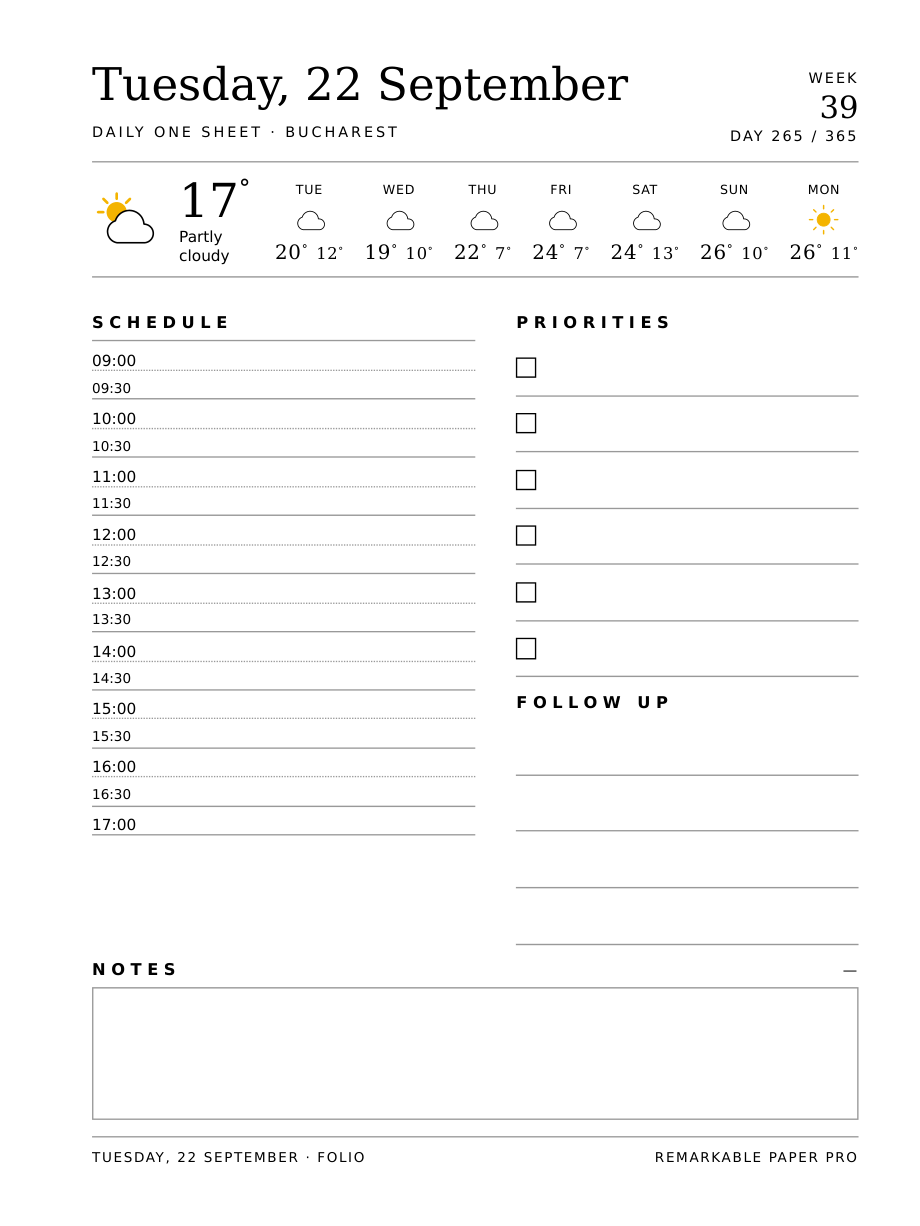
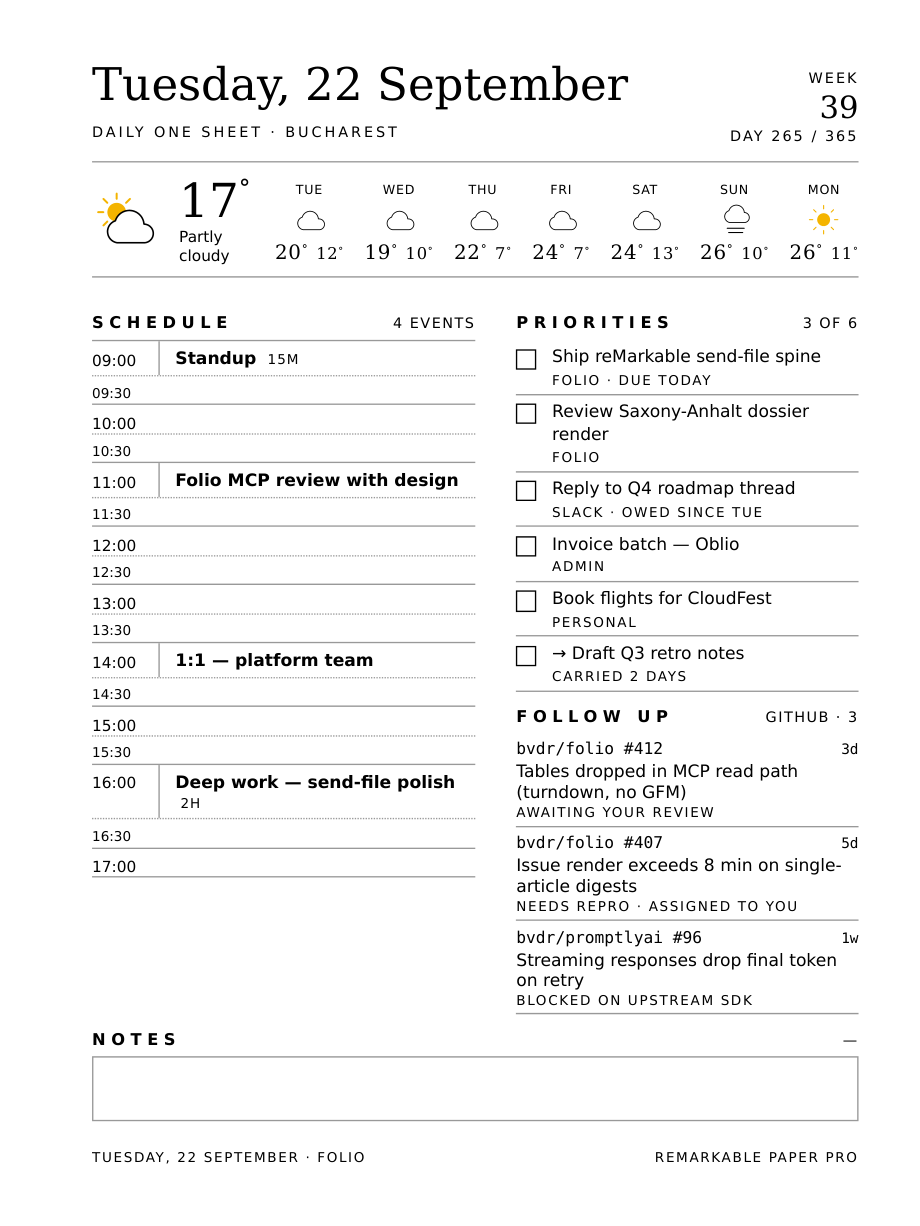
feat: data-driven build_sheet.py + baked-in defaults; drop footer rule
Adds scripts/build_sheet.py: give it a JSON of data and it emits the sheet HTML
with every design decision baked in (week/hourly weather, half-hour 09-17
schedule, blank write-on rows, notes box that fills, per-page toolbar-clear
margins, lined pages). reference/example-data.json is a full working sample.
SKILL.md documents the house-style defaults so any day can be recreated from
live data. Removes the redundant top rule on the footer.

diff --git a/plugins/daily-planner/skills/daily-planner/assets/planner.css b/plugins/daily-planner/skills/daily-planner/assets/planner.css
@@ -125,7 +125,7 @@ body {
 .grid__label { flex: 1; font-size: 9pt; }
 
 /* ---- Footer ---- */
-.foot { padding-top: 2.5mm; border-top: var(--line) solid var(--form);
+.foot { padding-top: 2.5mm;
   display: flex; justify-content: space-between; font-size: 7.5pt;
   letter-spacing: 0.12em; text-transform: uppercase; }
 

diff --git a/plugins/daily-planner/skills/daily-planner/scripts/build_sheet.py b/plugins/daily-planner/skills/daily-planner/scripts/build_sheet.py
@@ -1,0 +1,242 @@
+#!/usr/bin/env python3
+"""Build the daily one-sheet HTML from a JSON data file.
+
+Usage: build_sheet.py <data.json> <out.html>
+
+This encodes the fixed design decisions (layout, fonts, e-ink rules, half-hour
+schedule, week/hourly weather, blank write-on rows, notes box that fills, optional
+lined pages, toolbar-clear margins). The caller supplies only the *data*, so the
+same sheet can be recreated from live data any time. Render the HTML with render.py.
+
+Data shape (all fields optional unless noted; see reference/modules.md for the look):
+
+{
+  "page_mm": [179.7, 239.5],          # required, device page_mm
+  "toolbar_side": "left",             # left|right|none -> that side gets the wider margin
+  "color": true,                      # colour e-ink -> warm weather icons
+  "device_label": "reMarkable Paper Pro",
+  "date_line": "Tuesday, 22 September",
+  "location": "Bucharest",
+  "week": 39, "day_of_year": 265,
+  "weather": {
+    "current": {"temp": 17, "cond": "Partly cloudy", "icon": "partly-cloudy-day"},
+    "mode": "week",                   # "week" (7-day) or "hourly"
+    "week": [{"day": "Tue", "icon": "cloudy", "hi": 20, "lo": 12}, ...7],
+    "hourly": [{"label": "09", "temp": 19}, ...],
+    "stats": {"hi": 27, "lo": 14, "rain": "10%", "wind": "12 km/h", "sunset": "19:13"}
+  },
+  "schedule": {"start": "09:00", "end": "17:00", "step_min": 30,
+               "events": {"09:00": {"text": "Standup", "dur": "15m"}}},
+  "priorities": {"count_label": "3 of 6", "blank": 6,
+                 "items": [{"text": "...", "tag": "...", "done": false}]},
+  "followup":   {"count_label": "GitHub · 3", "blank": 4,
+                 "items": [{"ref": "bvdr/folio #412", "age": "3d", "title": "...", "meta": "..."}]},
+  "notes": true,
+  "lined_pages": 1,
+  "footer_left": "Tuesday, 22 September · Folio"
+}
+
+For a blank write-on sheet, omit `items` and set `blank` (a row count). icon keys are
+the ones in assets/weather-icons.md; `wmo_icon`/`wmo_cond` below map open-meteo codes.
+"""
+import json
+import re
+import sys
+from pathlib import Path
+
+SKILL = Path(__file__).resolve().parent.parent
+CSS = (SKILL / "assets" / "planner.css").read_text()
+
+
+def load_icons():
+    md = (SKILL / "assets" / "weather-icons.md").read_text()
+    keys = re.findall(r'^### (.+)$', md, re.M)
+    svgs = re.findall(r'```html\n(<svg.*?</svg>)\n```', md, re.S)
+    return dict(zip(keys, svgs))
+
+
+ICONS = load_icons()
+
+# open-meteo WMO weather_code -> (icon key, condition text). Convenience for the skill.
+WMO = {0: ("clear-day", "Clear"), 1: ("clear-day", "Mainly clear"),
+       2: ("partly-cloudy-day", "Partly cloudy"), 3: ("cloudy", "Overcast"),
+       45: ("fog", "Fog"), 48: ("fog", "Fog"),
+       51: ("rain", "Drizzle"), 53: ("rain", "Drizzle"), 55: ("rain", "Drizzle"),
+       61: ("rain", "Rain"), 63: ("rain", "Rain"), 65: ("rain", "Heavy rain"),
+       71: ("snow", "Snow"), 73: ("snow", "Snow"), 75: ("snow", "Heavy snow"),
+       80: ("rain", "Showers"), 81: ("rain", "Showers"), 82: ("rain", "Heavy showers"),
+       95: ("storm", "Thunderstorm"), 96: ("storm", "Thunderstorm"), 99: ("storm", "Thunderstorm")}
+
+
+def icon(key):
+    return ICONS.get(key, ICONS.get("cloudy", ""))
+
+
+def deg(t):
+    return f'{t}<span class="deg">&deg;</span>'
+
+
+def esc(s):
+    return str(s) if s is not None else ""
+
+
+def header(d):
+    date = esc(d.get("date_line"))
+    loc = d.get("location")
+    sub = "Daily One Sheet" + (f" &middot; {esc(loc)}" if loc else "")
+    week = esc(d.get("week"))
+    doy = esc(d.get("day_of_year"))
+    meta = f'Week <b>{week}</b> Day {doy} / 365' if (week or doy) else ""
+    return (f'<div class="head"><div><div class="head__date">{date or "&nbsp;"}</div>'
+            f'<div class="head__sub">{sub}</div></div>'
+            f'<div class="head__meta">{meta}</div></div>')
+
+
+def weather(w):
+    if not w:
+        return ""
+    cur = w.get("current", {})
+    big = icon(cur.get("icon", "cloudy")) if cur else '<div class="wx"></div>'
+    now = (f'<div class="weather__now"><span class="weather__temp">'
+           f'{deg(cur.get("temp","&nbsp;"))}</span>'
+           f'<span class="weather__cond">{esc(cur.get("cond")) or "&nbsp;"}</span></div>')
+    if w.get("mode") == "hourly":
+        stats = ""
+        st = w.get("stats")
+        if st:
+            stats = ('<div class="weather__div"></div><div class="weather__stats">'
+                     f'<b>H {deg(st.get("hi",""))} &nbsp; L {deg(st.get("lo",""))}</b><br>'
+                     f'Rain {esc(st.get("rain",""))} &middot; Wind {esc(st.get("wind",""))}<br>'
+                     f'Sunset {esc(st.get("sunset",""))}</div>')
+        cells = ''.join(f'<div class="hour">{esc(h.get("label"))}<b>{deg(h.get("temp",""))}</b></div>'
+                        for h in w.get("hourly", []))
+        strip = f'<div class="weather__hours">{cells}</div>'
+        return f'<div class="weather">{big}{now}{stats}{strip}</div>'
+    # default: week outlook
+    cells = ''.join(
+        f'<div class="wday">{esc(x.get("day"))} {icon(x.get("icon","cloudy"))}'
+        f'<b>{deg(x.get("hi",""))}</b><span class="lo">{deg(x.get("lo",""))}</span></div>'
+        for x in w.get("week", []))
+    return f'<div class="weather">{big}{now}<div class="weather__week">{cells}</div></div>'
+
+
+def _add_minutes(hhmm, step):
+    h, m = int(hhmm[:2]), int(hhmm[3:])
+    total = h * 60 + m + step
+    return f'{total//60:02d}:{total%60:02d}'
+
+
+def schedule(s):
+    if not s:
+        return ""
+    start = s.get("start", "09:00")
+    end = s.get("end", "17:00")
+    step = int(s.get("step_min", 30))
+    events = s.get("events", {})
+    rows = []
+    t = start
+    guard = 0
+    while guard < 200:
+        half = " half" if int(t[3:]) != 0 else ""
+        ev = events.get(t)
+        if ev:
+            dur = f' <span class="dur">{esc(ev.get("dur"))}</span>' if ev.get("dur") else ""
+            cell = f'<div class="slot__event has">{esc(ev.get("text"))}{dur}</div>'
+        else:
+            cell = '<div class="slot__event"></div>'
+        rows.append(f'<div class="slot{half}"><div class="slot__time">{t}</div>{cell}</div>')
+        if t == end:
+            break
+        t = _add_minutes(t, step)
+        guard += 1
+    label = s.get("count_label", "&nbsp;")
+    return (f'<div class="module sched"><div class="module__head">Schedule '
+            f'<span class="module__count">{label}</span></div>{"".join(rows)}</div>')
+
+
+def priorities(p):
+    if not p:
+        return ""
+    label = p.get("count_label", "&nbsp;")
+    items = p.get("items")
+    if items:
+        body = ''.join(
+            f'<div class="prio__item"><div class="prio__check{" prio__done" if it.get("done") else ""}"></div>'
+            f'<div><div class="prio__text">{esc(it.get("text"))}</div>'
+            f'<span class="prio__tag">{esc(it.get("tag"))}</span></div></div>' for it in items)
+    else:
+        body = ''.join('<div class="blank-row prio__blank"><div class="prio__check"></div></div>'
+                       for _ in range(int(p.get("blank", 6))))
+    return (f'<div class="module"><div class="module__head">Priorities '
+            f'<span class="module__count">{label}</span></div>{body}</div>')
+
+
+def followup(fu):
+    if not fu:
+        return ""
+    label = fu.get("count_label", "&nbsp;")
+    items = fu.get("items")
+    if items:
+        body = ''.join(
+            f'<div class="fu__item"><div class="fu__top"><span>{esc(it.get("ref"))}</span>'
+            f'<span class="fu__age">{esc(it.get("age"))}</span></div>'
+            f'<div class="fu__title">{esc(it.get("title"))}</div>'
+            f'<div class="fu__meta">{esc(it.get("meta"))}</div></div>' for it in items)
+    else:
+        body = ''.join('<div class="blank-row"></div>' for _ in range(int(fu.get("blank", 4))))
+    return (f'<div class="module"><div class="module__head">Follow up '
+            f'<span class="module__count">{label}</span></div>{body}</div>')
+
+
+def notes():
+    return ('<div class="module notes-fill"><div class="module__head">Notes '
+            '<span class="module__count">&mdash;</span></div><div class="notes__box"></div></div>')
+
+
+def footer(d):
+    return (f'<div class="foot"><span>{esc(d.get("footer_left"))}</span>'
+            f'<span>{esc(d.get("device_label"))}</span></div>')
+
+
+def lined_page(title, date_line):
+    lns = ''.join('<div class="ln"></div>' for _ in range(22))
+    return (f'<div class="page2"><div class="p2head"><span>{title}</span>'
+            f'<span>{esc(date_line)}</span></div><div class="lines">{lns}</div></div>')
+
+
+def margin_for(side):
+    if side == "right":
+        return "12mm 18mm 12mm 12mm"
+    if side == "none":
+        return "12mm"
+    return "12mm 12mm 12mm 18mm"  # left (reMarkable default)
+
+
+def build(d):
+    w, h = d.get("page_mm", [179.7, 239.5])
+    margin = d.get("margin") or margin_for(d.get("toolbar_side", "left"))
+    body_class = "color" if d.get("color") else ""
+    right = priorities(d.get("priorities")) + followup(d.get("followup"))
+    sheet = ('<div class="sheet">' + header(d) + weather(d.get("weather"))
+             + '<div class="cols"><div class="col col--left">' + schedule(d.get("schedule")) + '</div>'
+             + '<div class="col">' + right + '</div></div>'
+             + (notes() if d.get("notes", True) else "") + footer(d) + '</div>')
+    pages = ''.join(lined_page("Notes", d.get("date_line")) for _ in range(int(d.get("lined_pages", 0))))
+    return ('<!doctype html><html><head><meta charset="utf-8"><style>'
+            f'@page {{ size: {w}mm {h}mm; margin: {margin}; }}'
+            + CSS + '</style></head>'
+            f'<body class="{body_class}">' + sheet + pages + '</body></html>')
+
+
+def main():
+    if len(sys.argv) != 3:
+        print(__doc__)
+        sys.exit(2)
+    data = json.loads(Path(sys.argv[1]).read_text())
+    Path(sys.argv[2]).write_text(build(data))
+    pm = data.get("page_mm", [179.7, 239.5])
+    print(f"built {sys.argv[2]}  ({pm[0]}x{pm[1]}mm)  -> render with render.py {pm[0]} {pm[1]}")
+
+
+if __name__ == "__main__":
+    main()

diff --git a/plugins/daily-planner/skills/daily-planner/SKILL.md b/plugins/daily-planner/skills/daily-planner/SKILL.md
@@ -65,31 +65,34 @@ Ask what to pull data from, using whatever MCPs/tools are actually available thi
 For anything not connected, just ask the user for that section's content. Do not block on
 a missing integration; fall back to interviewing.
 
-## Step 6 - Build the HTML
+## Step 6 - Build the HTML from a data file
 
-Follow `reference/modules.md` (it has the exact HTML for every module):
-- Write the page-setup head with the **literal** `@page { size: <w>mm <h>mm; margin: ... }`
-  from the chosen device. Margins live in the `@page` rule so every page (incl. an extra
-  lined page) gets them; give the **toolbar side the wider margin** (reMarkable = left ->
-  `12mm 12mm 12mm 18mm`; Supernote = right -> `12mm 18mm 12mm 12mm`; Kindle = `12mm`).
-- Paste the full contents of `assets/planner.css` into the `<style>`.
-- On a **colour** device (reMarkable Paper Pro) use `<body class="color">` so the weather
-  icon renders warm; omit the class on mono devices (the sun falls back to black).
-- Weather: pick the icon for the condition from `assets/weather-icons.md`, and wrap every
-  degree mark in `<span class="deg">&deg;</span>`.
-- Assemble: header, weather, then `.cols` (schedule left; priorities + follow-up right),
-  then a full-width notes module, then the footer. A half-hour schedule (09:00-17:00) is a
-  good work-day default; add `half` to each `:30` row.
-- If the user wants more writing room, add one or more `.page2` lined pages after the
-  `.sheet` (see `reference/modules.md`).
+Put everything you gathered into one JSON file and run the builder. The builder holds all
+the fixed design decisions (layout, fonts, e-ink rules, half-hour schedule, week/hourly
+weather, blank write-on rows, notes box that fills, toolbar-clear per-page margins, lined
+pages) so you only supply *data* and the sheet is reproducible from live data any time.
 
-**E-ink rules (do not break these - see the device `render.guidelines`):**
-- Body text pure black. Form lines, rules and boxes at 30-40% black (`#999`-`#a8a8a8`).
-- Line weights already set in pt so they snap near whole device pixels. No 1px hairlines.
-- No pale greys (`#e0e0e0`+ vanish), no gradients, no tinted/shaded backgrounds. White ground only.
-- Keep everything inside `page_mm`; the device does not scale the page.
+```
+python3 <skill>/scripts/build_sheet.py <data.json> <out.html>
+```
 
-Write the HTML to a temp file (use the scratchpad, not the repo).
+The JSON shape and every field are documented at the top of `scripts/build_sheet.py`
+(and the look of each module in `reference/modules.md`). See
+`reference/example-data.json` for a complete, working example to copy.
+
+**Defaults (the house style - use unless the user says otherwise):**
+- Weather `mode: "week"` (7-day outlook). Use `"hourly"` only if the user wants hour-by-hour.
+- Schedule `start "09:00" end "17:00" step_min 30` (a half-hour work-day grid).
+- `notes: true` (a notes box that fills to the footer) and `lined_pages: 1` (one ruled page).
+- `toolbar_side` from `devices.json` so the tool rail stays clear (reMarkable = left).
+- `color: true` only on a colour device (reMarkable Paper Pro); leave false on mono.
+- **Blank template**: omit `items` in priorities/followup and set `blank` (a row count),
+  but still fill date, location, week/day and live weather.
+- Map open-meteo `weather_code` to an icon/condition with the `WMO` table in `build_sheet.py`.
+
+The e-ink rules (pure-black text, 30-40% form lines, whole-pixel strokes, no hairlines /
+greys / gradients, everything inside `page_mm`) are already baked into `planner.css`;
+do not override them. Write the JSON and HTML to the scratchpad, not the repo.
 
 ## Step 7 - Render to PDF
 
@@ -115,9 +118,12 @@ Name the file the Folio way, in the user's **local date**:
 Confirm to the user what was sent, to which device, and the file name. Keep it short.
 
 ## Notes
-- Everything the skill needs is in this folder: `reference/devices.json`,
-  `reference/modules.md`, `assets/planner.css`, `assets/weather-icons.md`,
-  `scripts/render.py`.
+- Everything the skill needs is in this folder: `scripts/build_sheet.py` (data -> HTML),
+  `scripts/render.py` (HTML -> PDF), `reference/example-data.json` (a full working data
+  file to copy), `reference/devices.json`, `reference/modules.md`, `assets/planner.css`,
+  `assets/weather-icons.md`.
+- Recreate any day: edit a copy of `example-data.json` with live data, run `build_sheet.py`
+  then `render.py`. `modules.md` is the reference for hand-building or custom layouts.
 - The reference layout: header + full-width weather strip on top, then two columns
   (schedule timeline left; priorities + follow-up right), then a full-width notes box and
   a small footer. Fonts prefer Georgia / Helvetica Neue / Menlo and fall back to Google's
